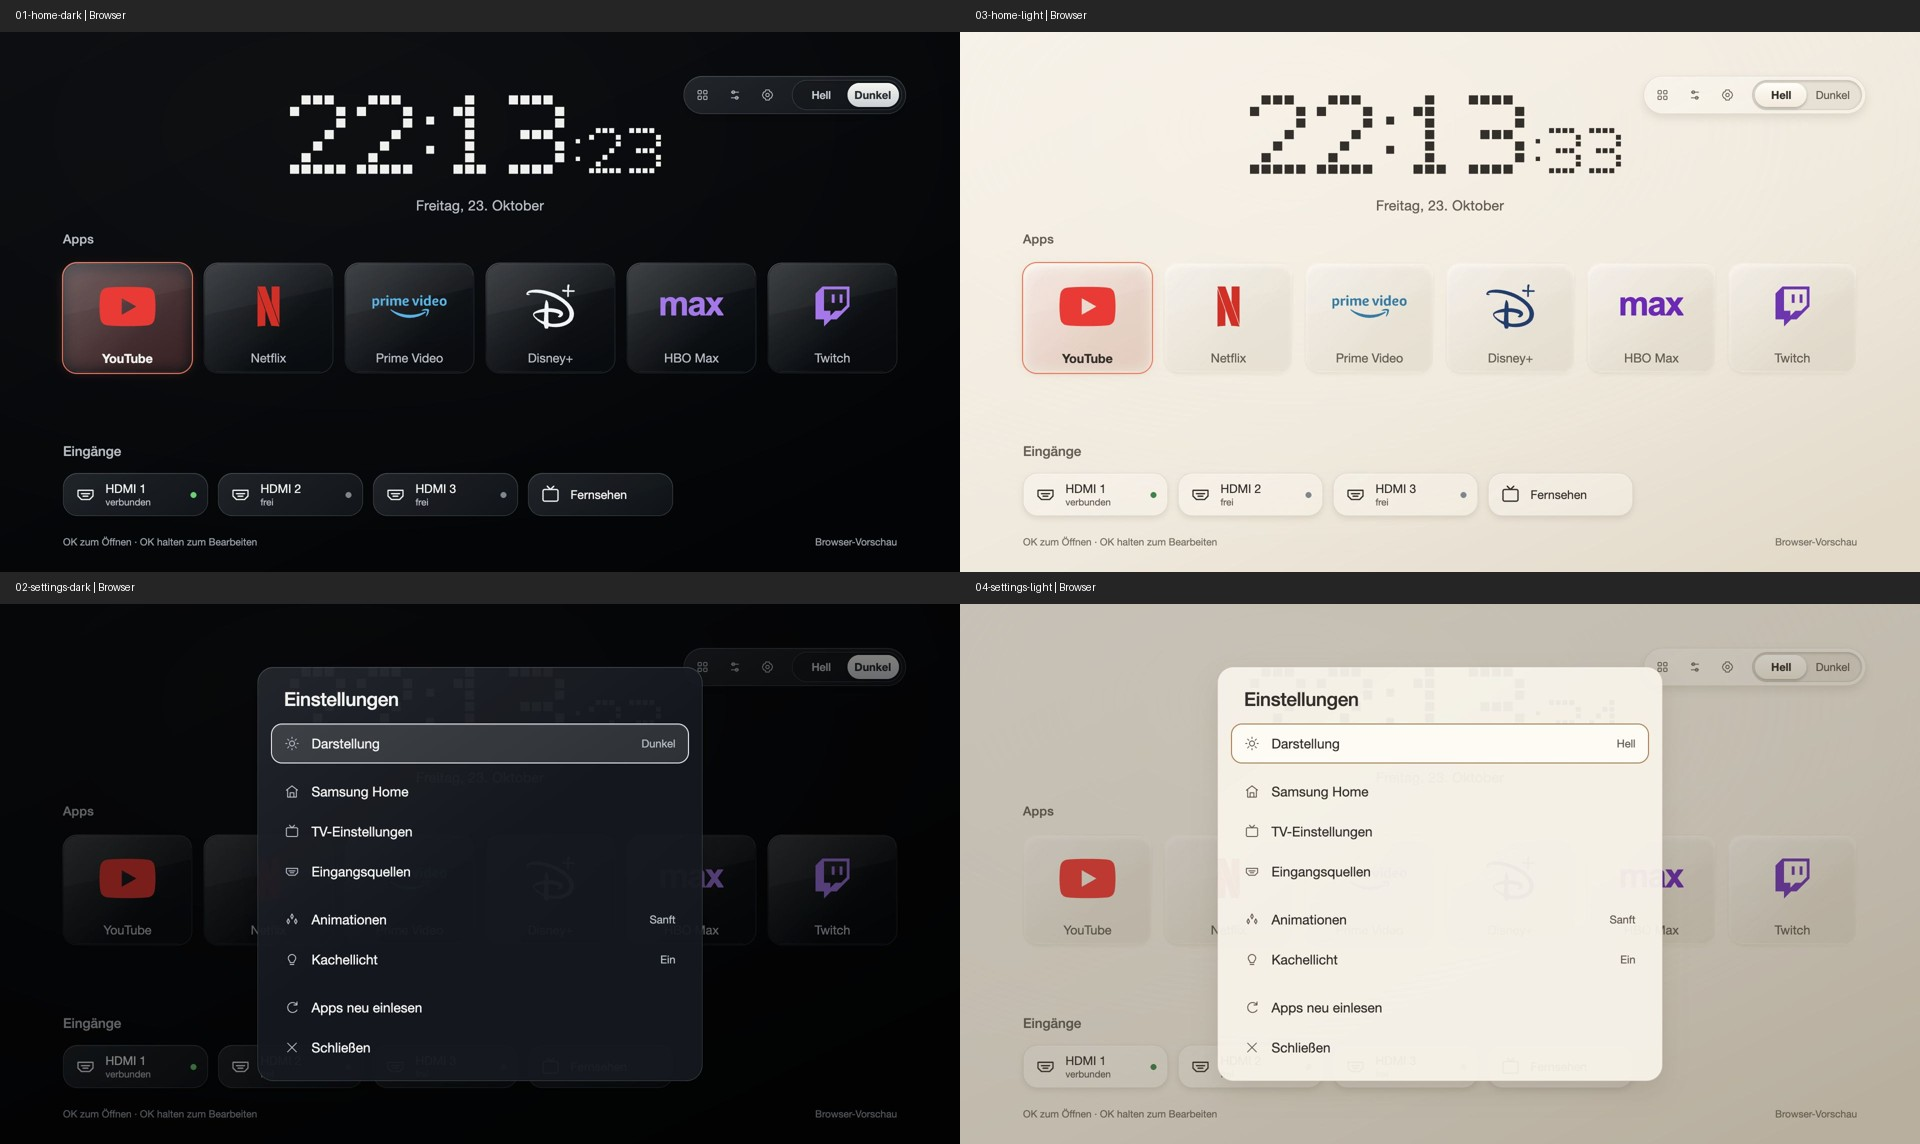
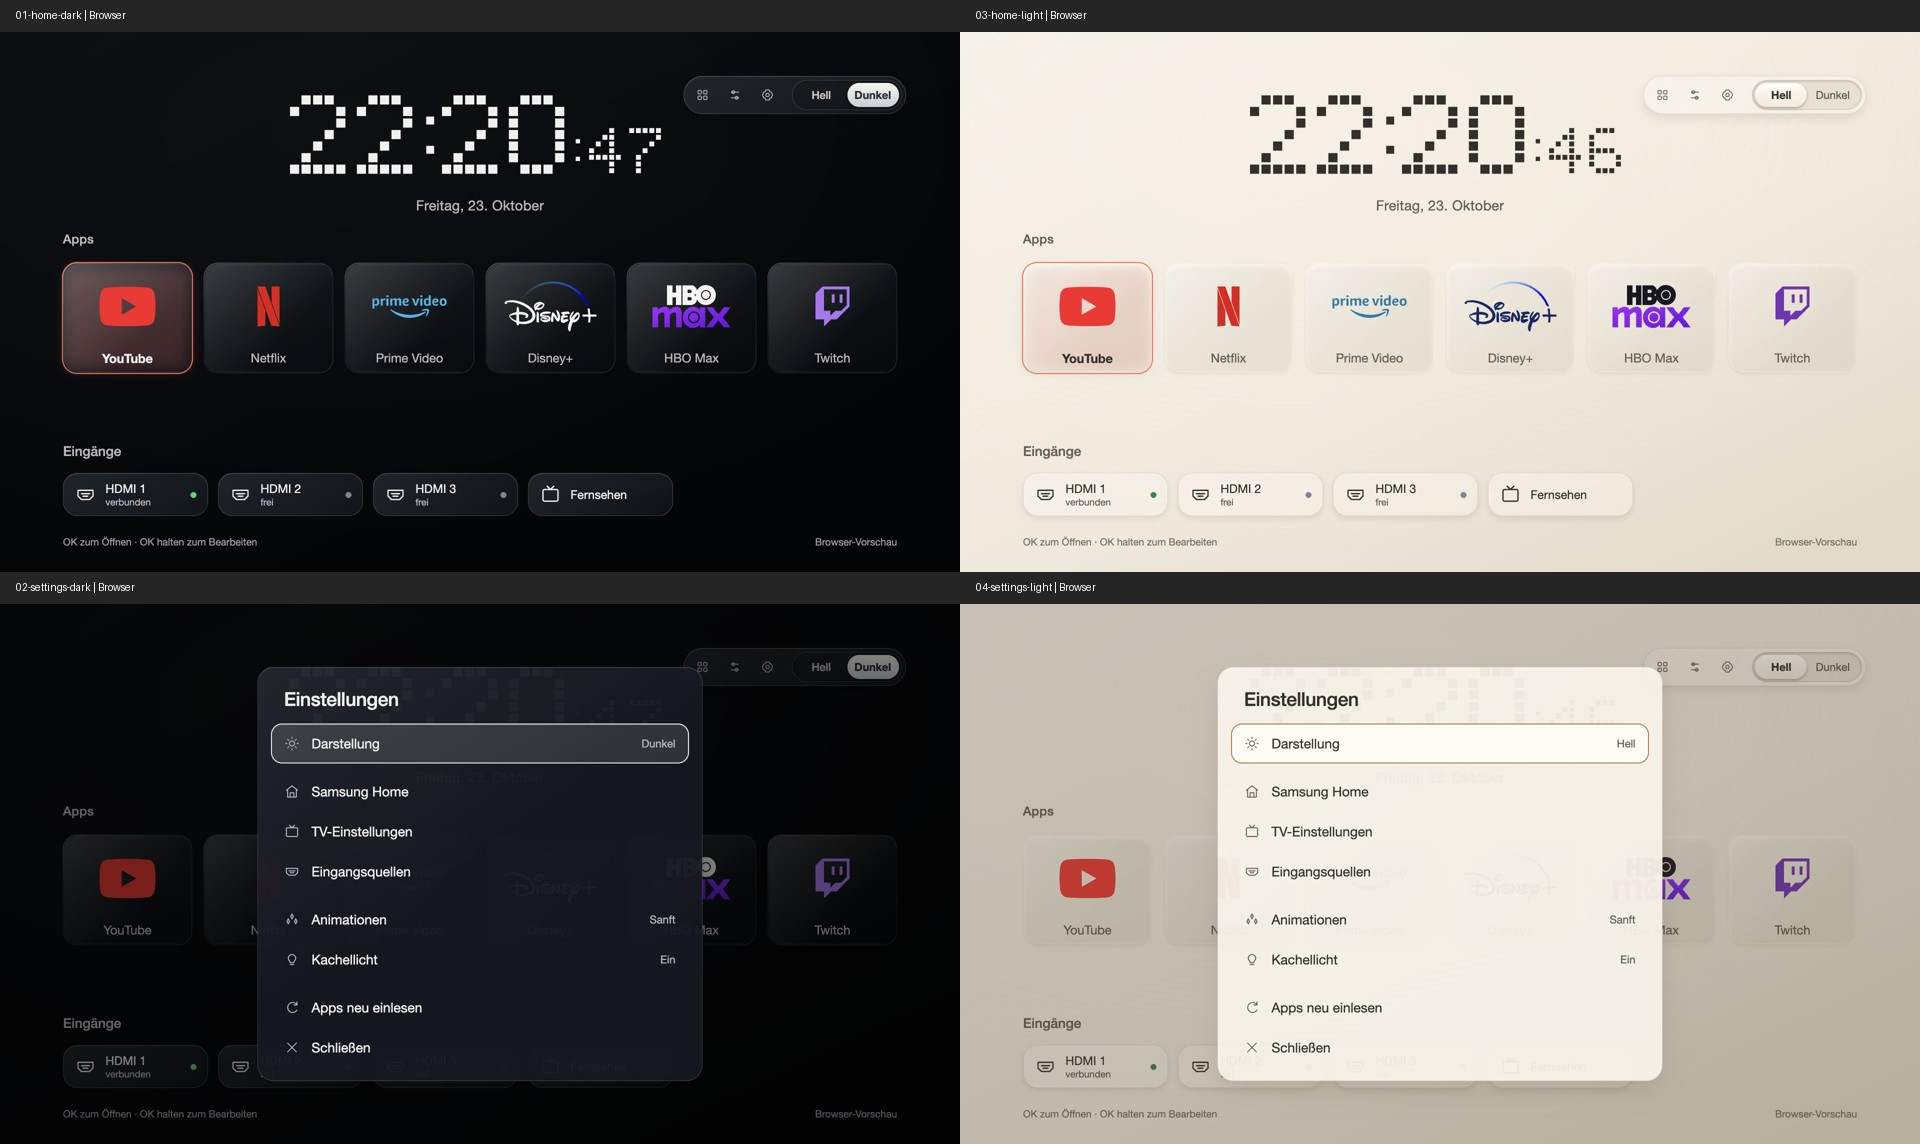
Finish 0.5.3 with complete Disney+ and HBO Max wordmarks
Replace simplified marks with transparent full wordmarks, remove the diagonal tile stripe, preserve gentle transitions and record the owner's successful final TV check. Include asset provenance and refreshed browser previews.

diff --git a/FlixHome 2/app/style.css b/FlixHome 2/app/style.css
@@ -1,4 +1,4 @@
-/* Flix Home 0.5.2 — translucent layers, composited focus fades. */
+/* Flix Home 0.5.3 — translucent layers, composited focus fades. */
 * { box-sizing:border-box; }
 html,body { margin:0;width:100%;height:100%;overflow:hidden;background:#15191e;font-family:'SamsungOne','Helvetica Neue',Arial,sans-serif;cursor:none; }
 button { font:inherit;color:inherit;border:0;cursor:inherit;outline:0; }
@@ -36,7 +36,7 @@ h1 { margin-left:48px;margin-bottom:0;font-size:25px;line-height:34px;color:var(
 .surface-active { opacity:0; }
 .logo-inner { position:absolute;z-index:2;top:10px;left:0;width:258px;height:154px;display:flex;align-items:center;justify-content:center;overflow:hidden;border-radius:28px;pointer-events:none; }
 .logo { display:block;width:120px;height:82px;object-fit:contain;opacity:1; }
-.logo-netflix { width:55px;height:80px; }.logo-youtube { width:115px;height:80px; }.logo-primevideo { width:149px;height:80px; }.logo-disneyplus { width:103px;height:90px; }.logo-twitch { width:76px;height:80px; }.logo-max { width:128px;height:65px; }
+.logo-netflix { width:55px;height:80px; }.logo-youtube { width:115px;height:80px; }.logo-primevideo { width:149px;height:80px; }.logo-disneyplus { width:184px;height:108px; }.logo-twitch { width:76px;height:80px; }.logo-max { width:156px;height:104px; }
 .fallback { font-size:68px;font-weight:500;line-height:1;color:var(--text); }
 .label { position:absolute;z-index:2;left:-10px;right:-10px;top:174px;font-size:25px;line-height:32px;color:var(--muted);white-space:nowrap;overflow:hidden;text-overflow:ellipsis; }
 .app.focused .tile-glow { opacity:.65; }.light .app.focused .tile-glow { opacity:.38; }

diff --git a/FlixHome 2/README.md b/FlixHome 2/README.md
@@ -1,6 +1,6 @@
 # Flix Home · experimental Tizen TV launcher
 
-A quiet, remote-first launcher for older Samsung Tizen TVs. Version 0.5.2 uses
+A quiet, remote-first launcher for older Samsung Tizen TVs. Version 0.5.3 uses
 an actual fixed 5×7 square-pixel clock, separated transparent vector marks,
 subtle glass cards and local focus light. The full-screen scene does not
 change during app navigation. A two-label light/dark switch stays visible;
@@ -24,12 +24,13 @@ correct light/dark rendering and responsive navigation for 0.5.0, and correct
 rendering and responsive navigation again after the 0.5.1 refinement.
 This is subjective device validation, not a measured frame-rate claim.
 
-The 0.5.2 home and settings views were also captured and visually inspected at
+The 0.5.3 home and settings views were also captured and visually inspected at
 1920×1080 in a browser. Preview data is mocked; these images are not TV footage.
 The capture harness only disables preview scaling to keep full resolution.
 No missing images or live CSS filters were found in the inspected browser view.
-The 0.5.2 package was signed, verified, installed and launched on the same TV.
-Its physical motion/rendering check is pending. Browser recordings use timestamped
+The 0.5.3 package was signed, verified, installed and launched on the same TV.
+The owner then confirmed that the full logos, removed diagonal stripe and
+pleasant transitions are correct on the TV (0.5.3). Browser recordings use timestamped
 screenshots (about 10 captured frames/s); they show navigation and are not a
 TV recording or a frame-rate benchmark.
 
@@ -60,10 +61,12 @@ disables these effects and browser prefers-reduced-motion is also respected.
 
 0.5.1 adds coloured transparent marks, labels inside the tiles, individual
 input pills with outline icons and connection indicators, and settings icons.
-Disney+ uses a compact D+ mark; HBO/max uses a plain typographic fallback.
+0.5.3 uses the full Disney+ wordmark with its arc and a stacked HBO/max
+wordmark, with transparent backgrounds and theme-appropriate lettering.
+The diagonal tile reflection stripe has been removed.
 These are deliberate asset choices, not exact reproductions of every mockup.
-0.5.2 makes the tile artwork genuinely translucent, adds restrained diagonal
-reflections and uses translucent input/toolbar materials. Settings retain dense
+0.5.2 makes the tile artwork genuinely translucent, uses quiet edge highlights and
+translucent input/toolbar materials. Settings retain dense
 surfaces for legibility. The backgrounds and the pixel clock stay fixed.
 
 ## Build and install on your own TV

diff --git a/FlixHome 2/REDDIT-DRAFT.md b/FlixHome 2/REDDIT-DRAFT.md
@@ -16,9 +16,9 @@ The idea was a quiet interface with big app tiles, a large pixel clock, beige/li
 
 **What’s still rough**
 
-The latest pass is closer to my mockups: coloured transparent logos, labels inside the tiles, separate input pills, warm beige and a nearly black dark mode. There is still work to do on the glass material, lighting and matching the references. Some logos are simplified marks or typographic fallbacks.
+The latest pass is closer to my mockups: coloured transparent logos, labels inside the tiles, separate input pills, warm beige and a nearly black dark mode. There is still work to do on the glass material, lighting and matching the references. The Disney+ and HBO Max marks have now been replaced with complete transparent wordmarks, and the diagonal reflection stripe has been removed.
 
-Performance has also been a problem. Earlier versions lagged badly with larger animated layers. Version 0.5.2 uses translucent pre-rendered glass textures, immediate focus changes and short local opacity fades. Reduced motion can be enabled in Settings. Both themes and responsive navigation have now been checked on my actual TV, but this is still an experimental project. Some visual checks and the demo recordings were done in a browser; those aren’t proof of TV performance.
+Performance has also been a problem. Earlier versions lagged badly with larger animated layers. Version 0.5.3 uses translucent pre-rendered glass textures, immediate focus changes and short local opacity fades. Reduced motion can be enabled in Settings. Both themes and responsive navigation have now been checked on my actual TV, but this is still an experimental project. Some visual checks and the demo recordings were done in a browser; those aren’t proof of TV performance.
 
 **What I wanted, but haven’t solved**
 

diff --git a/FlixHome 2/app/ASSET-SOURCES.md b/FlixHome 2/app/ASSET-SOURCES.md
@@ -8,11 +8,18 @@ photographs are included.
 YouTube, Netflix, Prime Video, Twitch, Apple TV, Spotify, Plex, Crunchyroll, DAZN
 and Movistar paths originate from Simple Icons 13.21.0 (CC0). Original source
 URLs: https://cdn.jsdelivr.net/npm/simple-icons@13.21.0/icons/NAME.svg
-The Disney+ mark comes from Custom Brand Icons, commit
-a53cabf49bf439023a8f33585af30d783bffe51b (MIT):
-https://github.com/elax46/custom-brand-icons/blob/a53cabf49bf439023a8f33585af30d783bffe51b/icon-svg/disney-plus.svg
-Original paths are retained under tools/marks; licenses are alongside them.
-Generated variants adjust viewBox whitespace and fill color only.
-HBO/max uses plain type as an intentionally simple fallback, not an extracted
-image or exact proprietary wordmark. Unknown apps use a single letter.
+The complete Disney+ wordmark comes from the Disney Enterprises logo hosted at:
+https://commons.wikimedia.org/wiki/File:Disney%2B_logo.svg
+https://upload.wikimedia.org/wikipedia/commons/3/3e/Disney%2B_logo.svg
+
+The stacked HBO/max artwork uses Warner Bros. Discovery paths hosted at:
+https://commons.wikimedia.org/wiki/File:HBO_Max_2024.svg
+https://upload.wikimedia.org/wikipedia/commons/4/44/HBO_Max_2024.svg
+
+Commons labels these files PD-textlogo. These brand marks are not original MIT
+project artwork. HBO and max components are uniformly scaled and repositioned
+to match the requested stacked proportions, with a purple max fill and theme
+variants for HBO. Disney lettering changes for contrast; its arc is retained.
+Original Disney SVG and adapted HBO/max paths are in tools/marks. No raster
+reference images or logo backgrounds are embedded. Unknown apps use one letter.
 Trademarks belong to their respective owners. No affiliation is claimed.

diff --git a/FlixHome 2/THIRD_PARTY_NOTICES.md b/FlixHome 2/THIRD_PARTY_NOTICES.md
@@ -12,7 +12,7 @@ The retained license is `tools/LICENSE-AeroTizen`.
 See also the TizenSdb.Core attribution in the signer's source.
 
 Transparent brand paths and their source/license information are documented in
-`app/ASSET-SOURCES.md`. Simple Icons CC0 and the exact Custom Brand Icons MIT
+`app/ASSET-SOURCES.md`. Simple Icons CC0 and the historical Custom Brand Icons MIT
 license are retained under `tools/marks/`; the latter is also in the app.
 No TV-extracted bitmap icons, reference photographs, proprietary fonts or
 signed packages are included. Device-specific signing material stays outside
@@ -21,3 +21,9 @@ this repository. Brand names do not imply affiliation.
 Sharp is an optional development dependency with its own licenses. It is not
 bundled or needed to run the generated TV app. Python cryptography is used for
 local signing and is not included in the TV package.
+
+## Full wordmarks added in 0.5.3
+
+Disney+ (Disney Enterprises, Inc.) and HBO Max (Warner Bros. Discovery) SVG
+wordmark sources, transformations and Commons PD-textlogo notices are documented
+in app/ASSET-SOURCES.md. Trademark rights remain with their owners.

diff --git a/README.md b/README.md
@@ -1,7 +1,7 @@
 # Flix Home
 
 Experimental, vibe-coded launcher for the Samsung UE43NU7409 (2018, Tizen 4.0).
-Version **0.5.2**: square-pixel clock, warm light / dark themes, translucent glass cards, transparent
+Version **0.5.3**: square-pixel clock, warm light / dark themes, translucent glass cards, transparent
 app marks and gentle local transitions. Verified on this particular TV.
 
 **Physical Home replacement and reliable boot/standby autostart are not implemented.**
